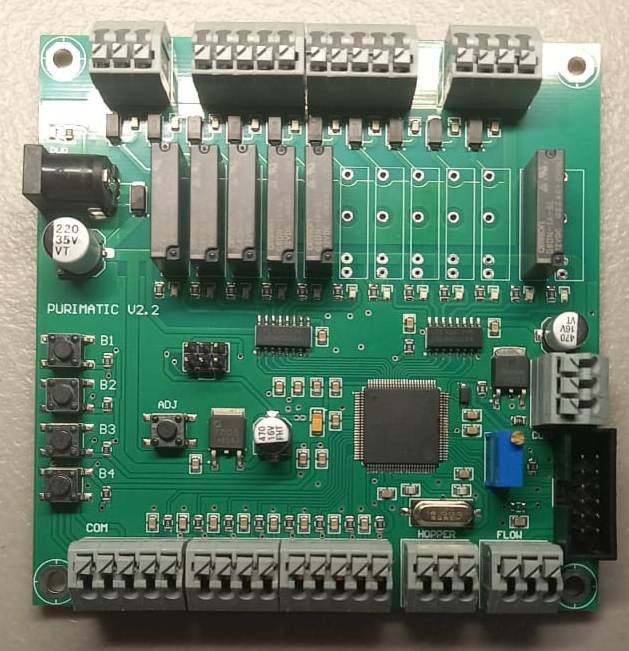
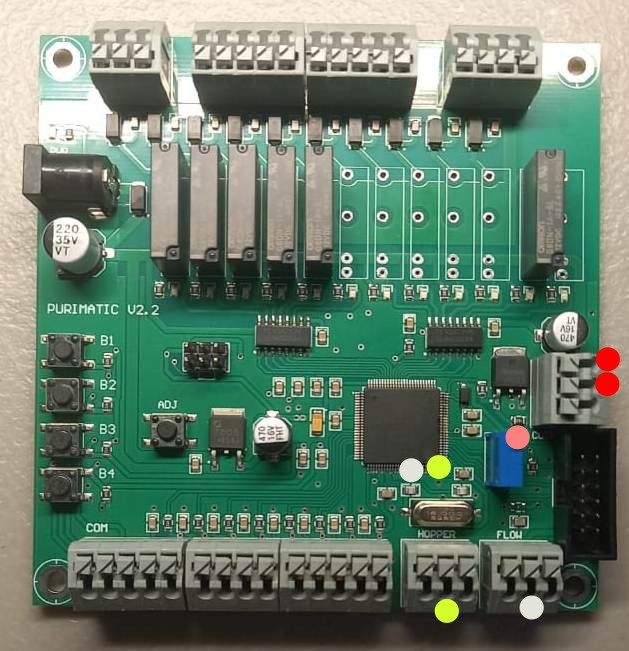
12

diff --git a/Exp_PuriMatic.html b/Exp_PuriMatic.html
@@ -806,10 +806,10 @@
     
                         <tr>
                             <td data-label="Proyecto">Purimatic v2.2</td>
-                            <td data-label="En fabricación" class="numero">1</td>
-                            <td data-label="Fecha fabricación" class="fecha-centro">Martes 2026-09-01</td>
-                            <td data-label="Listas para enviar" class="numero-grande">9</td>
-                            <td data-label="Fecha disponible" class="fecha-centro">Martes 2026-09-01</td>
+                            <td data-label="En fabricación" class="numero">0</td>
+                            <td data-label="Fecha fabricación" class="fecha-centro">Viernes 2026-09-04</td>
+                            <td data-label="Listas para enviar" class="numero-grande">10</td>
+                            <td data-label="Fecha disponible" class="fecha-centro">Viernes 2026-09-04</td>
                         </tr>
         
                     </tbody>
@@ -839,15 +839,15 @@
                     </thead>
                     <tbody>
     
-                        <tr class="fila-pendiente">
-                            <td data-label="Proceso">Fabricacion-Proceso</td>
+                        <tr class="">
+                            <td data-label="Proceso">Fabricacion-Salida</td>
                             <td data-label="Fecha" class="fecha-centro">Viernes 2026-09-04</td>
                             <td data-label="Prioridad" class="numero">1</td>
-                            <td data-label="Estado"><span class="estado-pendiente">Pendiente</span></td>
+                            <td data-label="Estado">Resuelto</td>
                             <td data-label="Descripción" style="font-weight:700;">
                                 Placa: Reparar 1 placa con componente dañado, aprobadas 9
                             </td>
-                            <td data-label="Cantidad" class="numero"></td>
+                            <td data-label="Cantidad" class="numero">1</td>
                         </tr>
                 
                         <tr class="">
@@ -859,17 +859,6 @@
                                 10 Placas fabricadas completas por Cesar
                             </td>
                             <td data-label="Cantidad" class="numero"></td>
-                        </tr>
-                
-                        <tr class="">
-                            <td data-label="Proceso">Fabricacion-Salida</td>
-                            <td data-label="Fecha" class="fecha-centro">Martes 2026-09-01</td>
-                            <td data-label="Prioridad" class="numero">3</td>
-                            <td data-label="Estado">Resuelto</td>
-                            <td data-label="Descripción" style="font-weight:700;">
-                                
-                            </td>
-                            <td data-label="Cantidad" class="numero">19</td>
                         </tr>
                 
                     </tbody>
@@ -936,18 +925,6 @@
                     </thead>
                     <tbody>
     
-                        <tr class="fila-alerta">
-                            <td data-label="idE">105</td>
-                            <td data-label="Descripción">CRISTAL - 16MHz ±20ppm 20pF HC-49S-SMD</td>
-                            <td data-label="Tipo">R_Costoso</td>
-                            <td data-label="Ctdad. crítica" class="numero">1</td>
-                            <td data-label="Ctdad. unitaria" class="numero">1</td>
-                            <td data-label="Ctdad. proyecto" class="numero-grande">20</td>
-                            <td data-label="Stock" class="numero-grande">-229</td>
-                            <td data-label="Diferencia proyecto" class="numero-grande">-249</td>
-                            <td data-label="Observaciones"></td>
-                        </tr>
-                
                         <tr class="fila-ok">
                             <td data-label="idE">4</td>
                             <td data-label="Descripción">CAPACITOR - 10 uf Tantalum 16V SA-3216</td>
@@ -994,6 +971,18 @@
                             <td data-label="Stock" class="numero-grande">1</td>
                             <td data-label="Diferencia proyecto" class="numero-grande">-499</td>
                             <td data-label="Observaciones">Ajuste - Reiniciar</td>
+                        </tr>
+                
+                        <tr class="fila-alerta">
+                            <td data-label="idE">105</td>
+                            <td data-label="Descripción">CRISTAL - 16MHz ±20ppm 20pF HC-49S-SMD</td>
+                            <td data-label="Tipo">R_Normal</td>
+                            <td data-label="Ctdad. crítica" class="numero">200</td>
+                            <td data-label="Ctdad. unitaria" class="numero">1</td>
+                            <td data-label="Ctdad. proyecto" class="numero-grande">20</td>
+                            <td data-label="Stock" class="numero-grande">-229</td>
+                            <td data-label="Diferencia proyecto" class="numero-grande">-249</td>
+                            <td data-label="Observaciones"></td>
                         </tr>
                 
                         <tr class="fila-ok">
@@ -1147,9 +1136,9 @@
                             <td data-label="Ctdad. crítica" class="numero">0</td>
                             <td data-label="Ctdad. unitaria" class="numero">1</td>
                             <td data-label="Ctdad. proyecto" class="numero-grande">20</td>
-                            <td data-label="Stock" class="numero-grande">19</td>
-                            <td data-label="Diferencia proyecto" class="numero-grande">-1</td>
-                            <td data-label="Observaciones">Inventario</td>
+                            <td data-label="Stock" class="numero-grande">39</td>
+                            <td data-label="Diferencia proyecto" class="numero-grande">19</td>
+                            <td data-label="Observaciones">compra</td>
                         </tr>
                 
                         <tr class="fila-ok">
@@ -1195,20 +1184,20 @@
                             <td data-label="Ctdad. crítica" class="numero">250</td>
                             <td data-label="Ctdad. unitaria" class="numero">2</td>
                             <td data-label="Ctdad. proyecto" class="numero-grande">40</td>
-                            <td data-label="Stock" class="numero-grande">410</td>
-                            <td data-label="Diferencia proyecto" class="numero-grande">370</td>
-                            <td data-label="Observaciones"></td>
+                            <td data-label="Stock" class="numero-grande">910</td>
+                            <td data-label="Diferencia proyecto" class="numero-grande">870</td>
+                            <td data-label="Observaciones">Reel de Reserva</td>
                         </tr>
                 
-                        <tr class="fila-alerta">
+                        <tr class="fila-ok">
                             <td data-label="idE">23</td>
                             <td data-label="Descripción">CONECTOR - DCJack C130239</td>
                             <td data-label="Tipo">T_Normal</td>
                             <td data-label="Ctdad. crítica" class="numero">300</td>
                             <td data-label="Ctdad. unitaria" class="numero">1</td>
                             <td data-label="Ctdad. proyecto" class="numero-grande">20</td>
-                            <td data-label="Stock" class="numero-grande">190</td>
-                            <td data-label="Diferencia proyecto" class="numero-grande">170</td>
+                            <td data-label="Stock" class="numero-grande">690</td>
+                            <td data-label="Diferencia proyecto" class="numero-grande">670</td>
                             <td data-label="Observaciones"></td>
                         </tr>
                 
@@ -1224,16 +1213,16 @@
                             <td data-label="Observaciones">Ajuste - Reiniciar</td>
                         </tr>
                 
-                        <tr class="fila-alerta">
+                        <tr class="fila-ok">
                             <td data-label="idE">122</td>
                             <td data-label="Descripción">CONECTOR - PRESION - 4P -TERM BLK 4POS 3.5mm TH</td>
                             <td data-label="Tipo">T_Normal</td>
                             <td data-label="Ctdad. crítica" class="numero">600</td>
                             <td data-label="Ctdad. unitaria" class="numero">2</td>
                             <td data-label="Ctdad. proyecto" class="numero-grande">40</td>
-                            <td data-label="Stock" class="numero-grande">-190</td>
-                            <td data-label="Diferencia proyecto" class="numero-grande">-230</td>
-                            <td data-label="Observaciones"></td>
+                            <td data-label="Stock" class="numero-grande">1310</td>
+                            <td data-label="Diferencia proyecto" class="numero-grande">1270</td>
+                            <td data-label="Observaciones">Compra</td>
                         </tr>
                 
                         <tr class="fila-alerta">
@@ -1278,7 +1267,7 @@
 
             <div class="nota">
                 <strong>Resumen:</strong>
-                7 componente(s) están en condición CRÍTICA
+                5 componente(s) están en condición CRÍTICA
                 según las reglas definidas por Tipo.
                 La cantidad de proyecto continúa calculándose para
                 20 placas como referencia de producción.
@@ -1432,6 +1421,6 @@
     </p>
 
     <p class="fecha-hora">
-        Fecha y hora: 11/09/2026 15:29:46
+        Fecha y hora: 15/09/2026 09:29:44
     </p>
 </footer>

diff --git a/fabricacion_disponibilidad.html b/fabricacion_disponibilidad.html
@@ -448,7 +448,7 @@
 
     <header class="encabezado">
         <h2>Balance de Placas</h2>
-        <p>Reporte actualizado: 2026-09-14</p>
+        <p>Reporte actualizado: 2026-09-15</p>
     </header>
 
     <div class="tabla-wrap">
@@ -572,6 +572,32 @@
         
                 <tr class="">
                     <td data-label="Proyecto" class="proyecto">
+                        Purimatic v2.2
+                    </td>
+
+                    <td data-label="Componente" class="componente">
+                        
+                    </td>
+
+                    <td data-label="En Fabricación" class="cantidad">
+                        0
+                    </td>
+
+                    <td data-label="Fecha fabricación" class="fecha">
+                        2026-09-04
+                    </td>
+
+                    <td data-label="Lista para Enviar" class="lista-enviar">
+                        10
+                    </td>
+
+                    <td data-label="Fecha disponible" class="fecha">
+                        2026-09-04
+                    </td>
+                </tr>
+        
+                <tr class="">
+                    <td data-label="Proyecto" class="proyecto">
                         DUO ver1.0
                     </td>
 
@@ -593,32 +619,6 @@
 
                     <td data-label="Fecha disponible" class="fecha">
                         2026-08-06
-                    </td>
-                </tr>
-        
-                <tr class="">
-                    <td data-label="Proyecto" class="proyecto">
-                        Purimatic v2.2
-                    </td>
-
-                    <td data-label="Componente" class="componente">
-                        
-                    </td>
-
-                    <td data-label="En Fabricación" class="cantidad">
-                        1
-                    </td>
-
-                    <td data-label="Fecha fabricación" class="fecha">
-                        2026-09-01
-                    </td>
-
-                    <td data-label="Lista para Enviar" class="lista-enviar">
-                        9
-                    </td>
-
-                    <td data-label="Fecha disponible" class="fecha">
-                        2026-09-01
                     </td>
                 </tr>
         
@@ -893,6 +893,6 @@
     </p>
 
     <p class="fecha-hora">
-        Fecha y hora: 14/09/2026 16:21:51
+        Fecha y hora: 15/09/2026 09:29:51
     </p>
 </footer>

diff --git a/secuencias_last.html b/secuencias_last.html
@@ -648,7 +648,7 @@
                             Purimatic v2.2
                         </td>
                         <td data-label="Proceso">
-                            Fabricacion-Proceso
+                            Fabricacion-Salida
                         </td>
                         <td data-label="Fecha" class="fecha">
                             Viernes, 04 de septiembre de 2026
@@ -760,27 +760,6 @@
                         </td>
                         <td data-label="Descripción" style="font-weight:700;">
                             10 Placas fabricadas completas por Cesar
-                        </td>
-                        <td data-label="Prioridad" class="prioridad">
-                            Baja
-                        </td>
-                        <td data-label="Estado" style="font-weight:700;">
-                            Resuelto
-                        </td>
-                    </tr>
-        
-                    <tr class="cumplido">
-                        <td data-label="Proyecto" style="font-weight:800;">
-                            Purimatic v2.2
-                        </td>
-                        <td data-label="Proceso">
-                            Fabricacion-Salida
-                        </td>
-                        <td data-label="Fecha" class="fecha">
-                            Martes, 01 de septiembre de 2026
-                        </td>
-                        <td data-label="Descripción" style="font-weight:700;">
-                            
                         </td>
                         <td data-label="Prioridad" class="prioridad">
                             Baja
@@ -1252,6 +1231,6 @@
     </p>
 
     <p class="fecha-hora">
-        Fecha y hora: 14/09/2026 16:22:39
+        Fecha y hora: 15/09/2026 09:29:47
     </p>
 </footer>

diff --git a/Purimatic.html b/Purimatic.html
@@ -344,7 +344,7 @@
         <p class="subtitulo-reporte">
             Proyecto: Purimatic v2.2
             &nbsp; | &nbsp;
-            Generado: 2026-09-11
+            Generado: 2026-09-15
         </p>
 
         <div class="cards-produccion">
@@ -353,11 +353,11 @@
                 <h2>En Fabricación</h2>
 
                 <div class="valor-produccion">
-                    1
+                    0
                 </div>
 
                 <div class="fecha-produccion">
-                    2026-09-01
+                    2026-09-04
                 </div>
             </section>
 
@@ -365,11 +365,11 @@
                 <h2>Listas para enviar</h2>
 
                 <div class="valor-produccion">
-                    9
+                    10
                 </div>
 
                 <div class="fecha-produccion">
-                    2026-09-01
+                    2026-09-04
                 </div>
             </section>
 
@@ -434,6 +434,6 @@
     </p>
 
     <p class="fecha-hora">
-        Fecha y hora: 11/09/2026 15:23:58
+        Fecha y hora: 15/09/2026 09:29:39
     </p>
 </footer>
